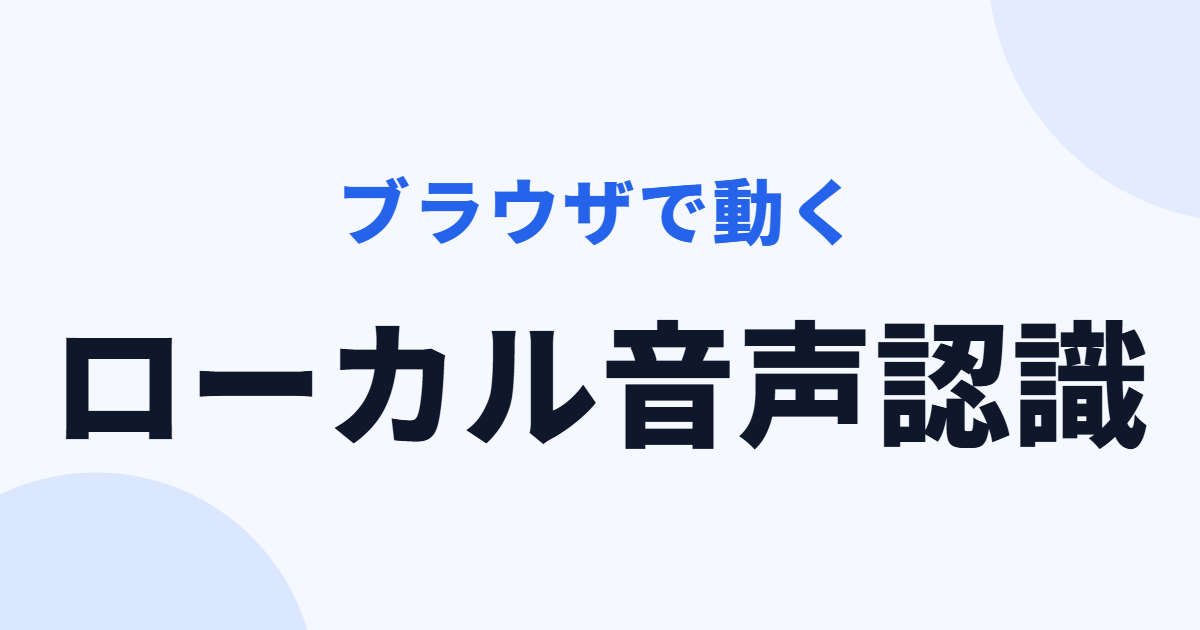
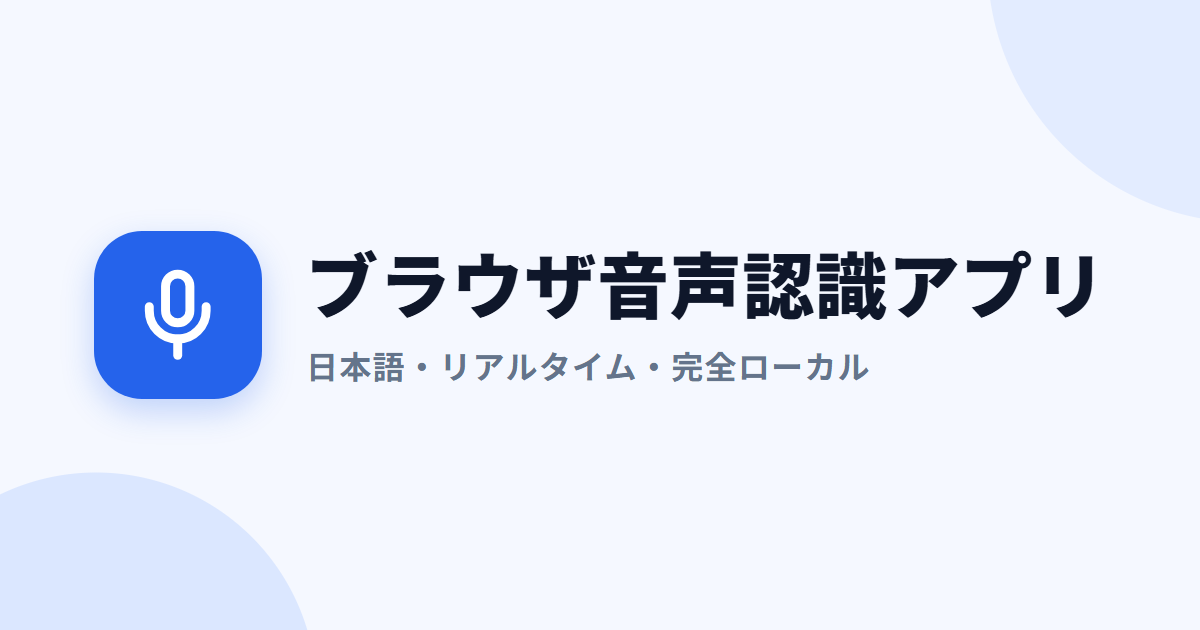
OGP 画像をアプリアイコン付きのデザインに変更、ファビコンの書き出しを修正
ファビコンはアイコン要素が画面外にあったため背景色だけの画像になっていた。

Changed region(s): [[0.0308, 0.2714, 0.9558, 0.7238]]

diff --git a/tools/og/og.html b/tools/og/og.html
@@ -19,33 +19,41 @@
     width: 1200px;
     height: 630px;
     display: flex;
-    flex-direction: column;
     align-items: center;
     justify-content: center;
-    gap: 18px;
+    gap: 44px;
   }
-  .lead { font-size: 72px; font-weight: 800; color: #2563eb; letter-spacing: 0.04em; }
-  h1 { font-size: 136px; font-weight: 900; letter-spacing: 0.01em; }
+  .text { display: flex; flex-direction: column; gap: 20px; }
+  h1 { font-size: 72px; font-weight: 900; letter-spacing: 0.01em; line-height: 1.1; }
+  .sub { font-size: 32px; font-weight: 700; color: #64748b; letter-spacing: 0.04em; }
 
-  /* ファビコン切り出し用（OGP 画像には写らない位置に置く） */
+  /* アプリアイコン。ファビコンもこの要素を切り出す */
   .mic {
-    position: absolute;
-    left: -400px;
-    top: 0;
-    width: 256px; height: 256px; border-radius: 72px;
+    flex: none;
+    width: 168px; height: 168px; border-radius: 48px;
     background: #2563eb; display: grid; place-items: center;
+    box-shadow: 0 12px 32px rgb(37 99 235 / 0.25);
   }
+  .mic svg { width: 58%; height: 58%; }
+
+  /* ファビコン書き出し時（make-og.ts が body に付ける） */
+  body.favicon { background: transparent; }
+  body.favicon .card { display: block; }
+  body.favicon .text { display: none; }
+  body.favicon .mic { width: 256px; height: 256px; border-radius: 72px; box-shadow: none; }
 </style>
 </head>
 <body>
   <div class="card">
-    <div class="lead">ブラウザで動く</div>
-    <h1>ローカル音声認識</h1>
-  </div>
-  <div class="mic">
-    <svg width="150" height="150" viewBox="0 0 24 24" fill="none" stroke="#fff" stroke-width="2.2" stroke-linecap="round" stroke-linejoin="round">
-      <rect x="9" y="2" width="6" height="12" rx="3"/><path d="M5 10v1a7 7 0 0 0 14 0v-1"/><path d="M12 18v4"/>
-    </svg>
+    <div class="mic">
+      <svg viewBox="0 0 24 24" fill="none" stroke="#fff" stroke-width="2.2" stroke-linecap="round" stroke-linejoin="round">
+        <rect x="9" y="2" width="6" height="12" rx="3"/><path d="M5 10v1a7 7 0 0 0 14 0v-1"/><path d="M12 18v4"/>
+      </svg>
+    </div>
+    <div class="text">
+      <h1>ブラウザ音声認識アプリ</h1>
+      <div class="sub">日本語・リアルタイム・完全ローカル</div>
+    </div>
   </div>
 </body>
 </html>

diff --git a/tools/make-og.ts b/tools/make-og.ts
@@ -1,23 +1,22 @@
 // tools/og/og.html を描画して OGP 画像（public/og.png, 1200x630）とファビコン（public/favicon.png）を作る。
 // 使い方: node tools/make-og.ts            → public に出力
-//         node tools/make-og.ts --preview  → .cache/og-preview.png に出力して確認だけする
+//         node tools/make-og.ts --preview  → .cache/og-preview.png, .cache/favicon-preview.png に出力して確認だけする
 import path from 'node:path';
 import {fileURLToPath, pathToFileURL} from 'node:url';
 import {chromium} from 'playwright';
 
 const root = path.resolve(path.dirname(fileURLToPath(import.meta.url)), '..');
 const preview = process.argv.includes('--preview');
+const outDir = path.join(root, preview ? '.cache' : 'public');
+const ogPath = path.join(outDir, preview ? 'og-preview.png' : 'og.png');
+const faviconPath = path.join(outDir, preview ? 'favicon-preview.png' : 'favicon.png');
 
 const browser = await chromium.launch();
 const page = await browser.newPage({viewport: {width: 1200, height: 630}});
 await page.goto(pathToFileURL(path.join(root, 'tools', 'og', 'og.html')).href);
-if (preview) {
-  await page.screenshot({path: path.join(root, '.cache', 'og-preview.png')});
-  console.log('.cache/og-preview.png written');
-} else {
-  await page.screenshot({path: path.join(root, 'public', 'og.png')});
-  // ファビコンはマイクのアイコン部分だけを切り出す
-  await page.locator('.mic').screenshot({path: path.join(root, 'public', 'favicon.png'), omitBackground: true});
-  console.log('public/og.png, public/favicon.png written');
-}
+await page.screenshot({path: ogPath});
+// ファビコンはアイコンだけを表示する状態に切り替えてから切り出す
+await page.evaluate(() => document.body.classList.add('favicon'));
+await page.locator('.mic').screenshot({path: faviconPath, omitBackground: true});
+console.log(`${path.relative(root, ogPath)}, ${path.relative(root, faviconPath)} written`);
 await browser.close();
